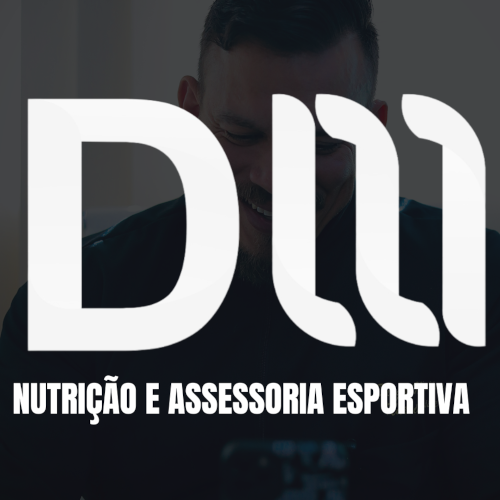
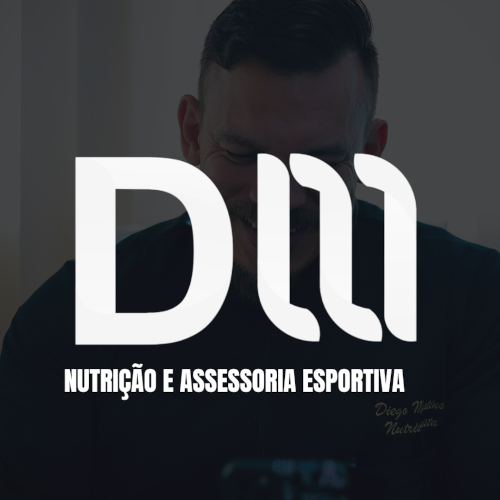
Ajustei a centralização dos clientes, troquei os arquivos do cliente DM para ser quadrado e caber corretamente sem cortes e ajustes na parte do js customizado do swiper

diff --git a/JS/script.js b/JS/script.js
@@ -22,7 +22,7 @@ new Swiper('.card-wrapper', {
             slidesPerView: 1
         },
 
-        768:{
+        568:{
             slidesPerView: 2
         },
 
@@ -36,19 +36,11 @@ new Swiper('.card-wrapper', {
 //swiper de clientes
 new Swiper('.card-wrapper-clientes', {
     loop: true,
-    spaceBetween: 30,
-
-    // If we need pagination
-    pagination: {
-        el: '.swiper-pagination',
-        clickable: true,
-        dynamicBullets: true,
-    },
+    spaceBetween: 50,
 
     // Navigation arrows
     navigation: {
         nextEl: '.swiper-button-next',
-        prevEl: '.swiper-button-prev',
     },
 
     //responsividade
@@ -57,7 +49,11 @@ new Swiper('.card-wrapper-clientes', {
             slidesPerView: 1
         },
 
-        768:{
+        500:{
+            slidesPerView: 2
+        },
+
+        728:{
             slidesPerView: 3
         },
 

diff --git a/ESTILOS/styleIQ.css b/ESTILOS/styleIQ.css
@@ -160,10 +160,6 @@ video{
     cursor: grabbing;
 }
 
-.card-list .card-item .card-link:hover{
-    border-color: white;
-}
-
 .card-list .card-link .card-image{
     width: 100%;
     height: 100%;
@@ -200,16 +196,18 @@ video{
 /*inicio section swiper clientes*/
 #clientes{
     margin-top: 20px;
+    padding-left: 30px;
 }
 
 .card-wrapper-clientes{
     max-width: 1200px;
-    padding: 20px 10px;
+    padding: 20px 0px;
     overflow: hidden;
 }
 
 .card-list-clientes .card-item-clientes{
     list-style-type: none;
+    margin-right: 0px;
 }
 
 .card-list-clientes .card-item-clientes .card-link-clientes{
